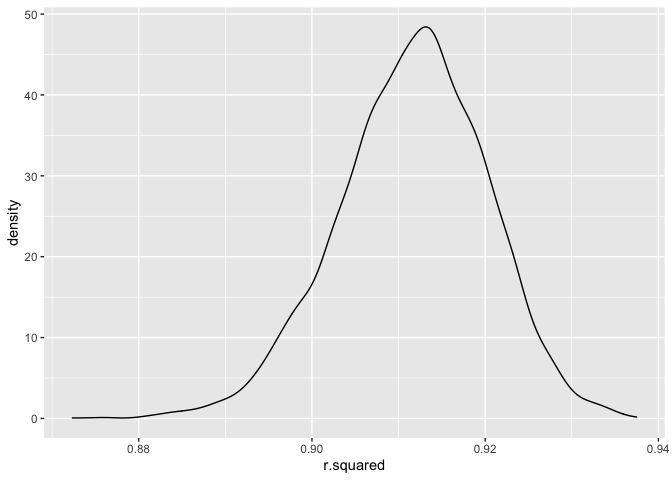
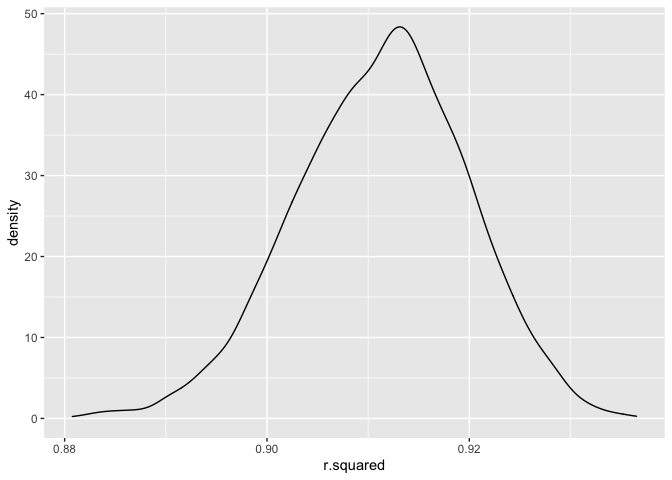
finished hw 6

diff --git a/p8105_hw6_sl5010.md b/p8105_hw6_sl5010.md
@@ -273,7 +273,7 @@ bootstrap_results %>%
 
 | term        | boot\_se |
 |:------------|---------:|
-| (Intercept) |    0.256 |
+| (Intercept) |    0.254 |
 | tmin        |    0.017 |
 
 ``` r
@@ -295,7 +295,7 @@ bootstrap_logresults %>%
     ## # A tibble: 1 × 2
     ##   ci_lower ci_upper
     ##      <dbl>    <dbl>
-    ## 1     1.97     2.06
+    ## 1     1.96     2.06
 
 ``` r
 bootstrap_logresults %>%
@@ -303,6 +303,11 @@ bootstrap_logresults %>%
 ```
 
 ![](p8105_hw6_sl5010_files/figure-gfm/unnamed-chunk-10-1.png)<!-- -->
+
+**the distribution of estimates**, the
+log (*β*<sub>0</sub> × *β*<sub>1</sub>) has the distribution that peaks
+at log (*β*<sub>0</sub> × *β*<sub>1</sub>) = 2.01, where the density is
+17.
 
 ``` r
  bootstrap_results2 = 
@@ -331,3 +336,7 @@ bootstrap_results2 %>%
 ```
 
 ![](p8105_hw6_sl5010_files/figure-gfm/unnamed-chunk-11-1.png)<!-- -->
+
+**the distribution of estimates**, the *r̂*<sup>2</sup> has the
+distribution that peaks at *r̂*<sup>2</sup> = 0.91, where the density is
+around 46.
